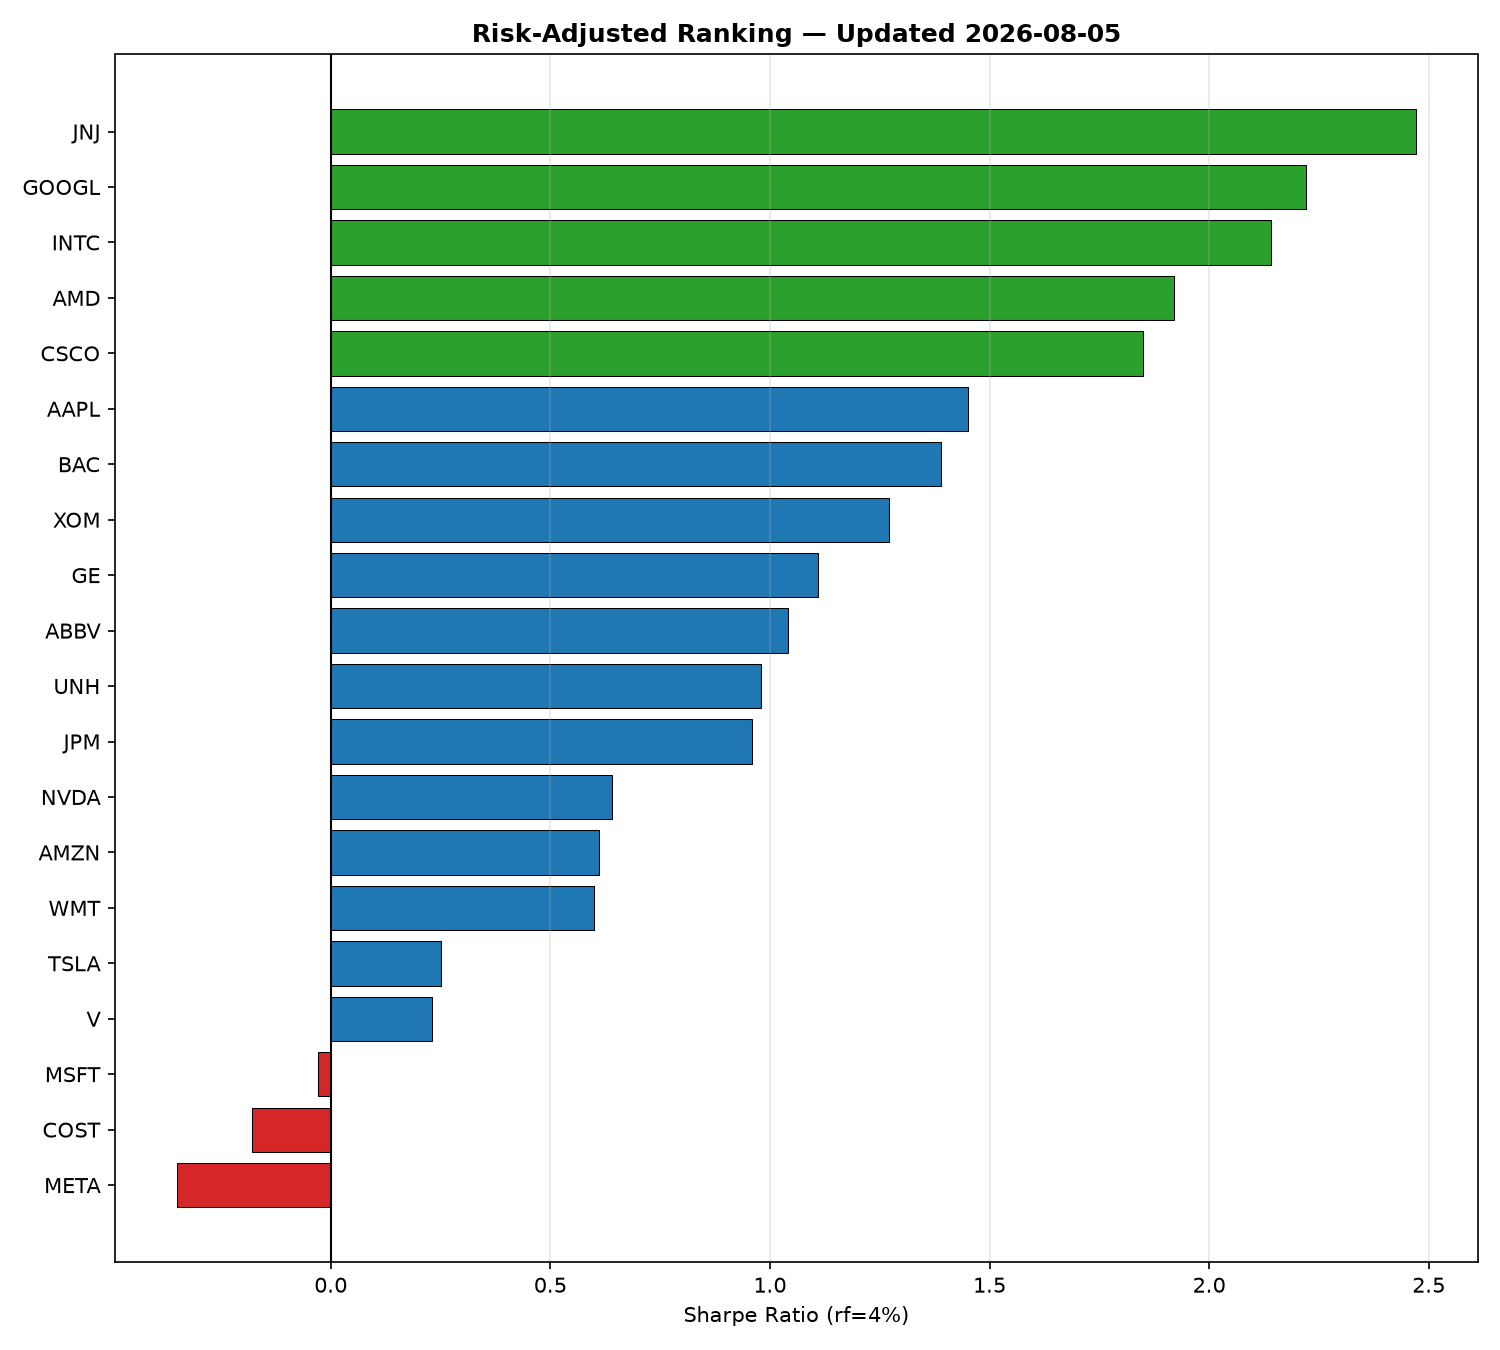
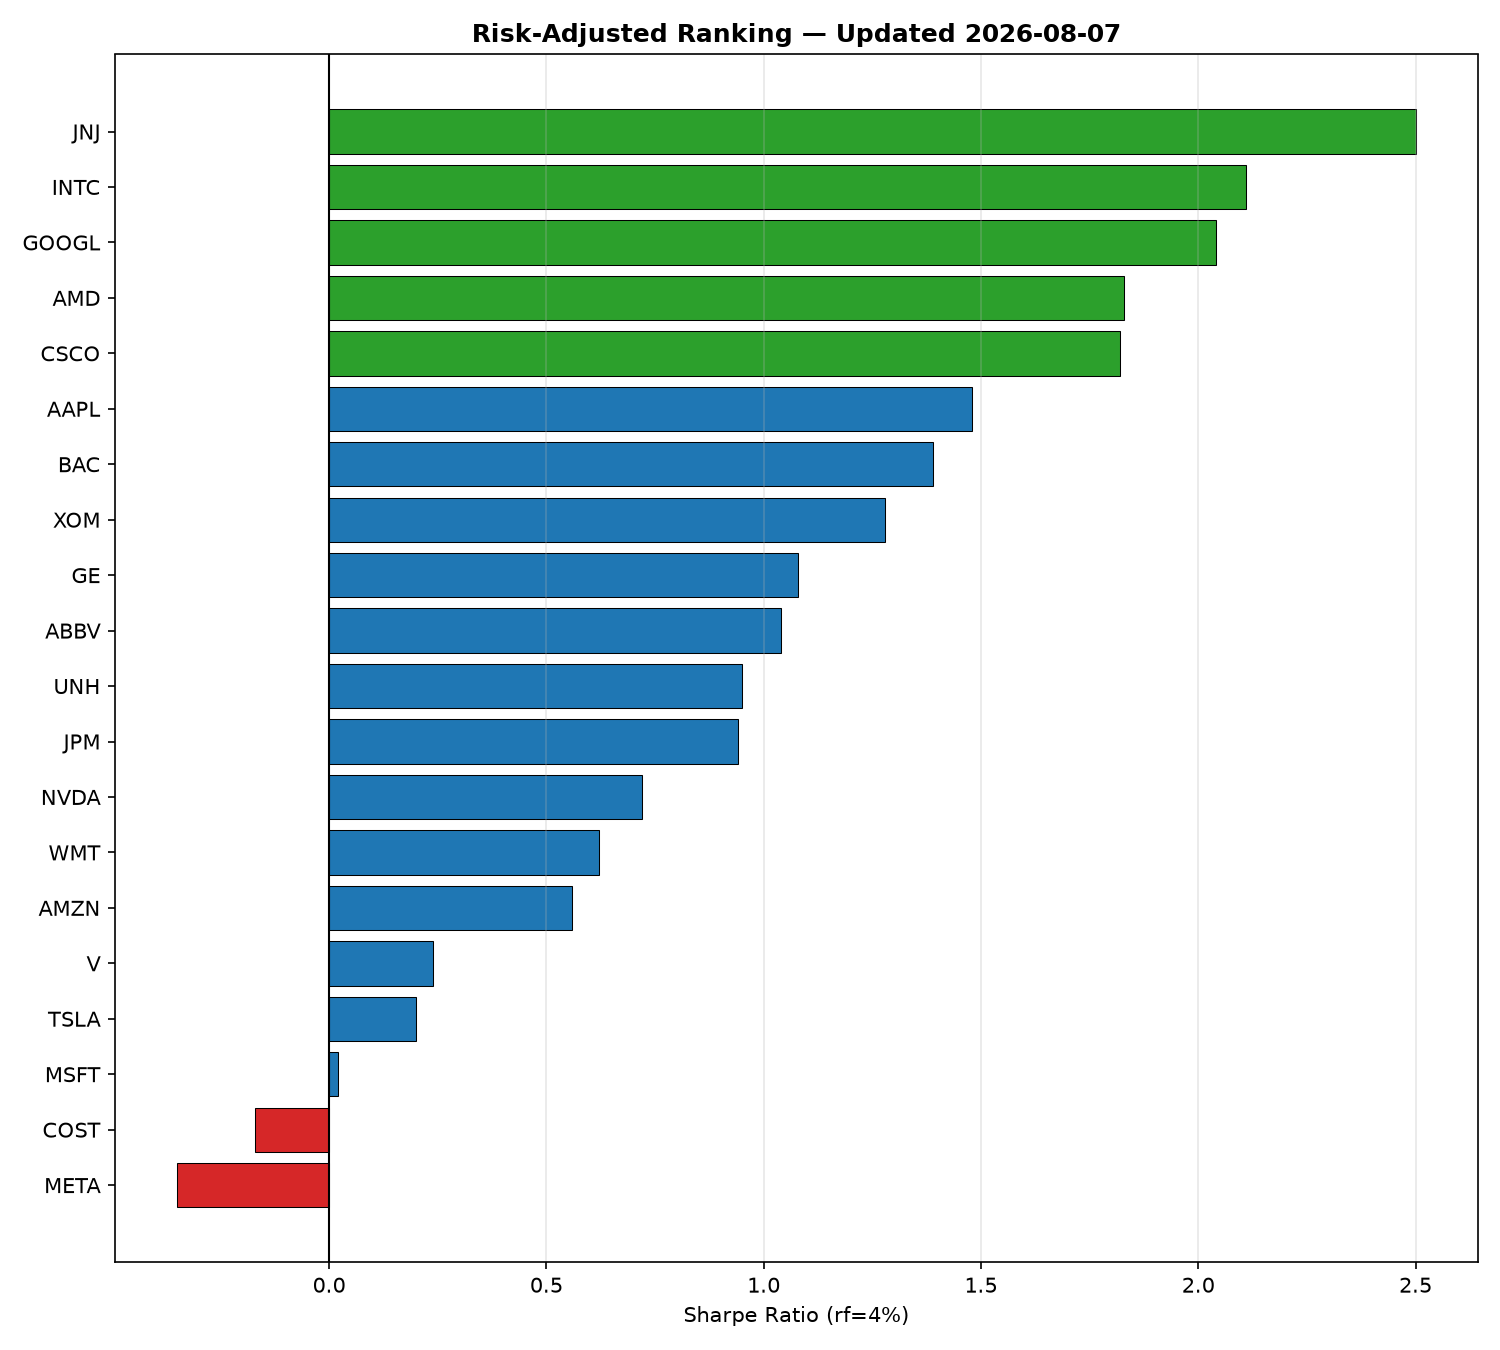
Automated daily update: prices, metrics, and charts

diff --git a/SNAPSHOT.md b/SNAPSHOT.md
@@ -1,9 +1,9 @@
-# Daily Risk Snapshot — 2026-08-04
+# Daily Risk Snapshot — 2026-08-06
 
-**Best mover:** INTC (+10.84%)
-**Worst mover:** AMZN (-2.32%)
-**Top risk-adjusted performer (trailing window):** JNJ (Sharpe 2.47)
+**Best mover:** MSFT (+2.54%)
+**Worst mover:** UNH (-2.13%)
+**Top risk-adjusted performer (trailing window):** JNJ (Sharpe 2.5)
 
-**⚠ Newly anomalous today:** CSCO, INTC — return moved more than 2 std. deviations from its own 20-day trailing mean.
+**No new anomaly flags today.**
 
 _Auto-generated by `scripts/daily_snapshot.py` via GitHub Actions._
